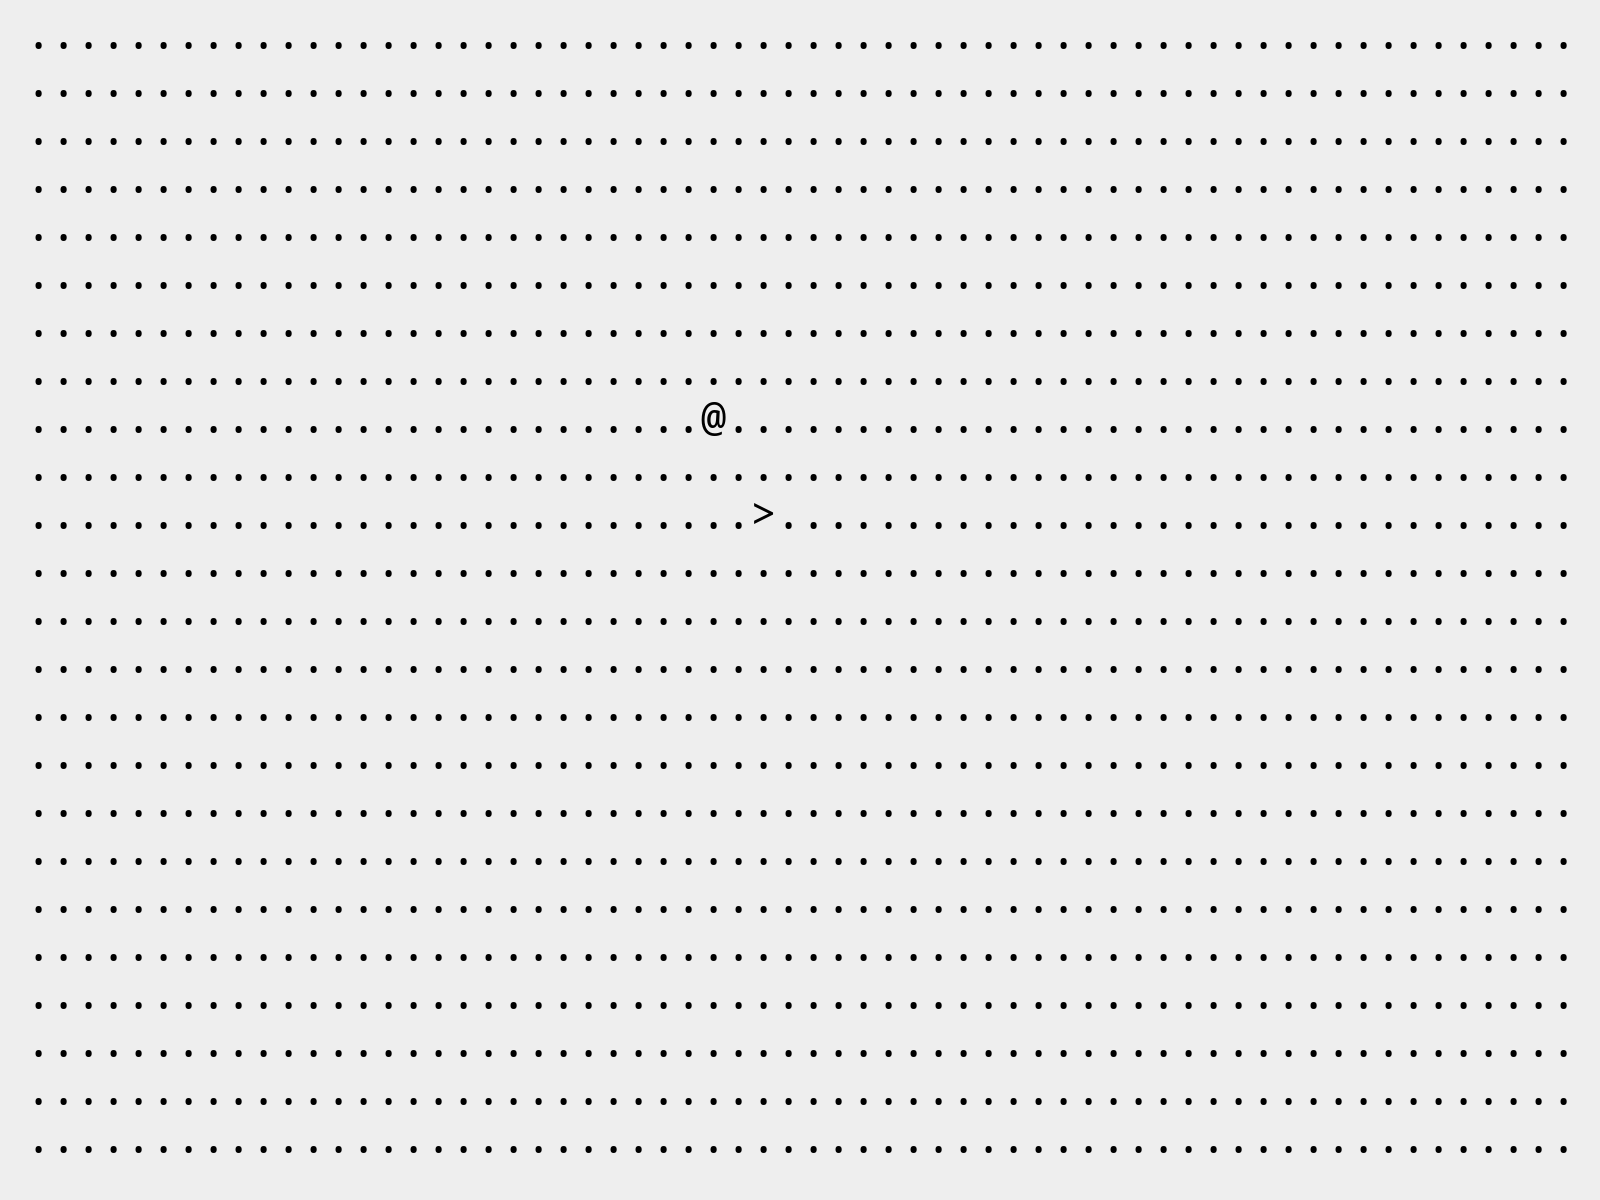
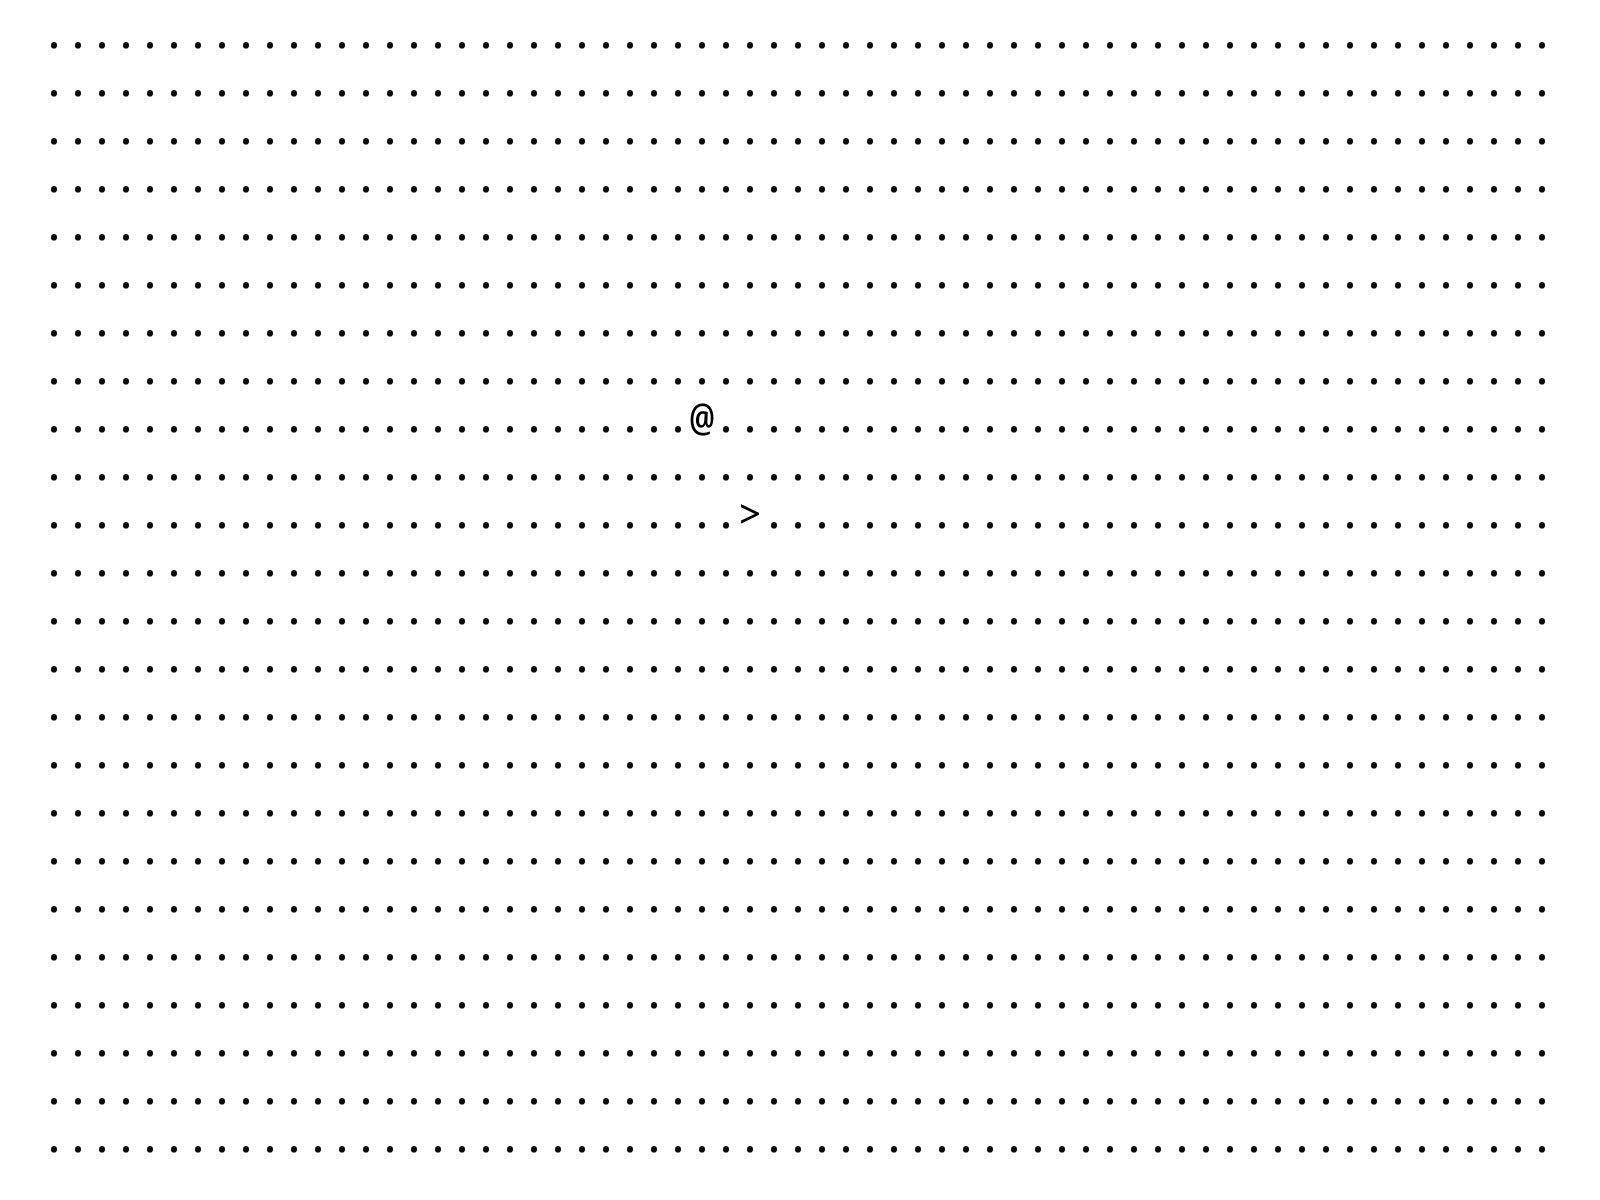
rewrite in Go

Changed region(s): [[0.4062, 0.3083, 0.4688, 0.37], [0.4375, 0.4317, 0.4688, 0.4625]]

diff --git a/crawlpaper.go b/crawlpaper.go
@@ -1,0 +1,41 @@
+// crawlpaper - "wallpapers" of rougelike text interfaces
+//
+// Usage:
+//   go get github.com/fogleman/gg
+//   go build crawlpaper.go
+//   ./crawlpaper < crawl.paper
+
+package main
+
+import (
+	"bufio"
+	"github.com/fogleman/gg"
+	"os"
+)
+
+func main() {
+	// TWEAK width, height
+	dc := gg.NewContext(1600, 1200)
+
+	// TWEAK font path, font size
+	err := dc.LoadFontFace(os.Getenv("HOME")+"/.fonts/NotoMono-Regular.ttf", 40)
+	if err != nil {
+		panic(err)
+	}
+
+	// TWEAK background and foreground colors
+	dc.SetRGB(1, 1, 1)
+	dc.Clear()
+	dc.SetRGB(0, 0, 0)
+
+	input := bufio.NewScanner(os.Stdin)
+	i := 0
+	for input.Scan() {
+		// TWEAK where to put the individual lines TODO might be easier
+		// to use text wrapping facility of gg library?
+		dc.DrawString(input.Text(), 42, 48+48*float64(i))
+		i++
+	}
+
+	dc.SavePNG("crawlpaper.png")
+}
